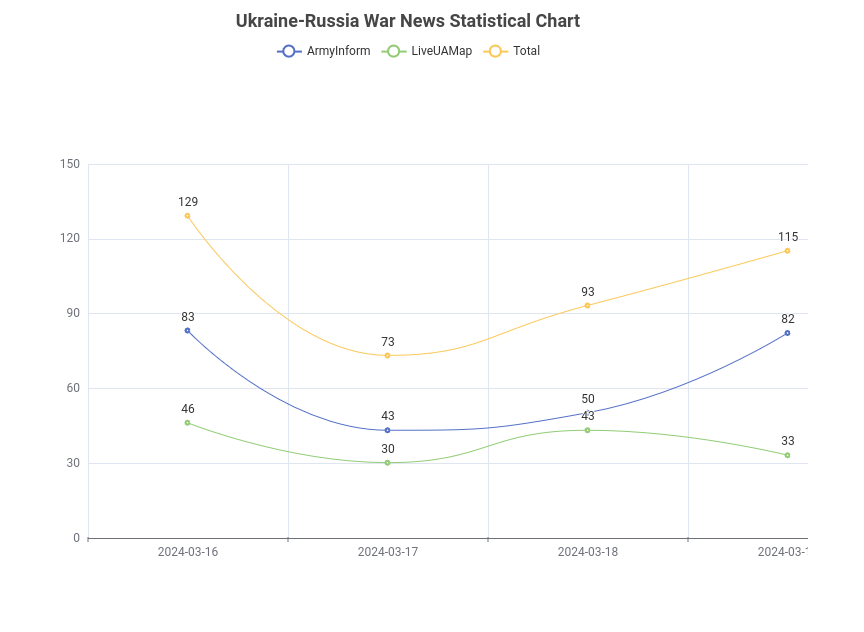
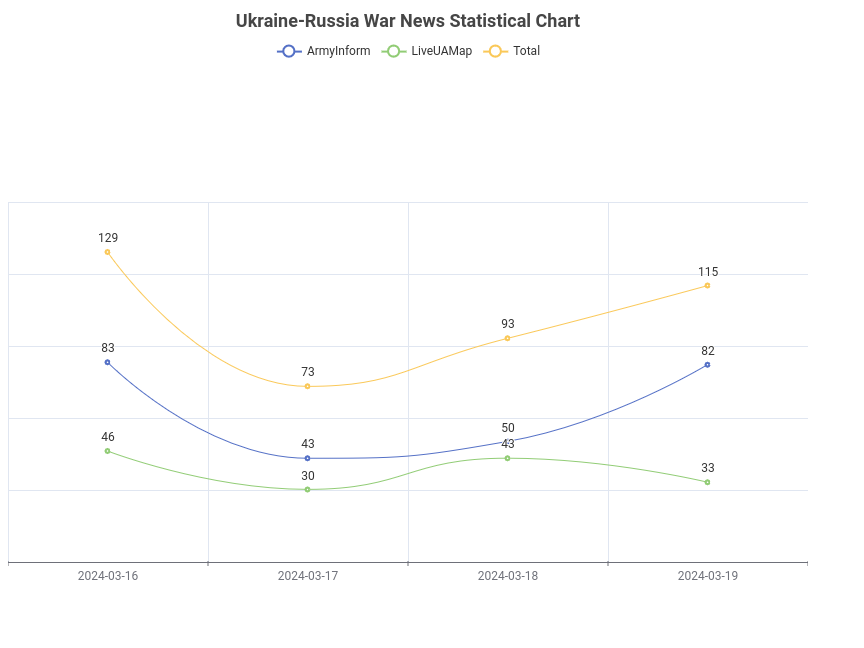
News.

diff --git a/pages/statistic_render.html b/pages/statistic_render.html
@@ -7,11 +7,11 @@
 
 </head>
 <body >
-    <div id="6e18c7a78bc74a2ca24e56d017160513" class="chart-container" style="width:800px; height:600px; "></div>
+    <div id="49f58db104c2454e9806f9c73ca62bb3" class="chart-container" style="width:800px; height:624px; "></div>
     <script>
-        var chart_6e18c7a78bc74a2ca24e56d017160513 = echarts.init(
-            document.getElementById('6e18c7a78bc74a2ca24e56d017160513'), 'white', {renderer: 'canvas'});
-        var option_6e18c7a78bc74a2ca24e56d017160513 = {
+        var chart_49f58db104c2454e9806f9c73ca62bb3 = echarts.init(
+            document.getElementById('49f58db104c2454e9806f9c73ca62bb3'), 'white', {renderer: 'canvas'});
+        var option_49f58db104c2454e9806f9c73ca62bb3 = {
     "animation": true,
     "animationThreshold": 2000,
     "animationDuration": 1000,
@@ -306,7 +306,8 @@
             "show": false,
             "zlevel": 0,
             "z": 2,
-            "top": 156,
+            "left": 0,
+            "top": 194,
             "width": 800,
             "containLabel": false,
             "backgroundColor": "transparent",
@@ -317,7 +318,7 @@
         }
     ]
 };
-        chart_6e18c7a78bc74a2ca24e56d017160513.setOption(option_6e18c7a78bc74a2ca24e56d017160513);
+        chart_49f58db104c2454e9806f9c73ca62bb3.setOption(option_49f58db104c2454e9806f9c73ca62bb3);
     </script>
 </body>
 </html>

diff --git a/index.htm b/index.htm
@@ -18,7 +18,7 @@ max-width:100%;max-height:100%;
 <h2><a href="./pages/2024-03-19/CHI_NEW/findex.htm">2024-03-19 新闻 (中文)</a> (<a href="./pages/2024-03-19/CHI_NEW/findex_mobile.htm">移动</a>)</h2>
 <h2><a href="./pages/2024-03-19/ENG_NEW/findex.htm">2024-03-19 News (English)</a> (<a href="./pages/2024-03-19/ENG_NEW/findex_mobile.htm">Mobile</a>)</h2>
 <h3><a href="https://ciangcing14.github.io/">[查看马列毛主义新闻 (Check Marxism-Leninism-Maoism News)]</a></h3>
-<embed type="text/html" src="./pages/statistic_render.html" width='864' height='632'></embed> 
+<embed type="text/html" src="./pages/statistic_render.html" width='864' height='648'></embed> 
 <img src="Title.png"/>
 <h2>新乌克兰-俄罗斯战争译文与重要文献：</h2>
 </hr>
